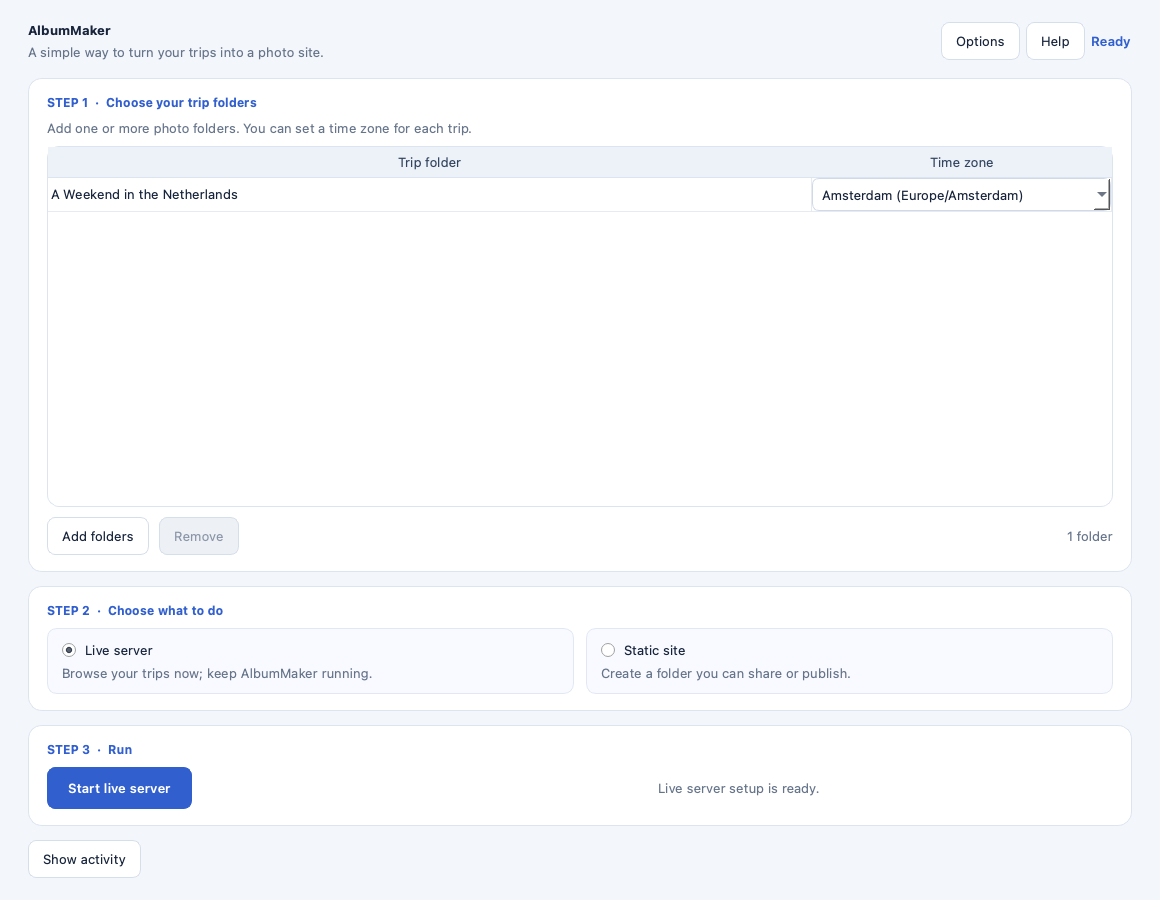
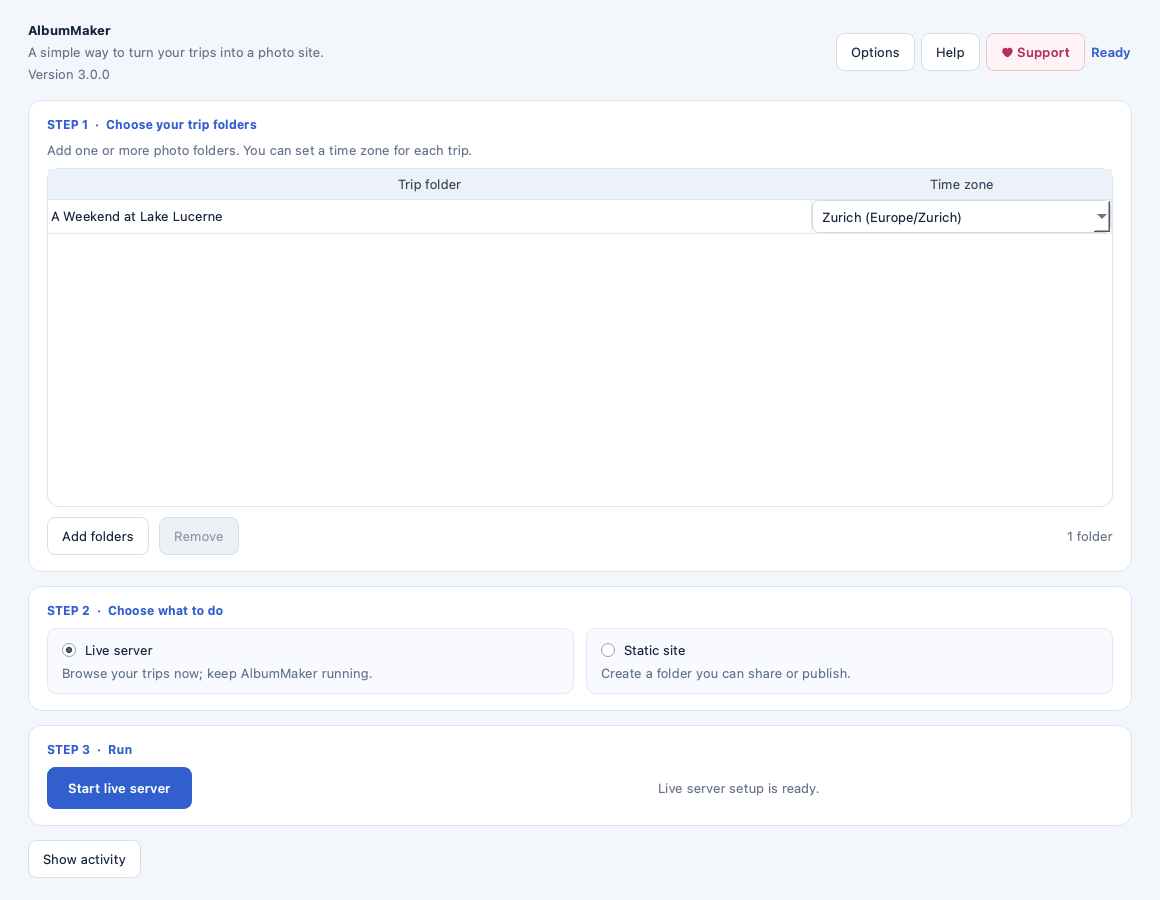
Product page: correct claims that overstated the app
- The trip title and subtitle are set in trip_content.json, not in the page.
- GPX tracks need times; place names need a location.
- Only the live server keeps viewed map tiles.
- A trip's time zone places videos and GPS matching, not photo dates.
- The app does not open the result by itself.
- FFmpeg is installed with winget or Homebrew, not in one click everywhere.
- Fresh desktop app screenshot (version line, Support button, sample trip).

diff --git a/docs/index.html b/docs/index.html
@@ -242,12 +242,12 @@
       <div class="row">
         <div class="copy">
           <h3>Tell the story, trace the route</h3>
-          <p>Give the trip a title and subtitle, and every day a title and a few paragraphs of what happened. Write them in the page while the live server runs, or in one plain <code>trip_content.json</code> file next to your photos.</p>
+          <p>Give every day a title and a few paragraphs of what happened, right in the page while the live server runs. Everything is kept in one plain <code>trip_content.json</code> file next to your photos, where you also set the trip's title and subtitle and can edit any text by hand.</p>
           <p>Recorded a track with your watch, phone or bike computer? Drop the <code>.gpx</code> file into the trip folder. AlbumMaker draws the way you actually went, adds up the kilometres, and puts photos from a camera without GPS on the map by matching their times to the track.</p>
           <ul>
             <li>Paragraphs, captions and favourites, saved safely: an edit never overwrites text changed elsewhere</li>
-            <li>One GPX file or a whole folder of them, from any app that exports GPX</li>
-            <li>Place names for every day, looked up offline</li>
+            <li>One GPX file or several, from any watch or app that records GPX tracks with times</li>
+            <li>Place names for every day with a location, looked up offline</li>
           </ul>
         </div>
         <div class="shot crop"><a href="demo/days/2025-05-14.html"><img src="assets/trip-story.png" width="1440" height="1220" alt="Day page titled Bridges and the old town, with a three-paragraph story and the walk through Lucerne drawn from a GPX track" loading="lazy"></a></div>
@@ -257,8 +257,8 @@
         <article><h3>Edit right in the page</h3><p>With the live server, write day titles and stories, add captions, mark favourites, hide photos and choose covers without opening a file.</p></article>
         <article><h3>Photos and video together</h3><p>Handles common photo and video formats, pairs Live Photos, and skips duplicates and system clutter on its own.</p></article>
         <article><h3>Place names built in</h3><p>Photos with GPS get a place name from a bundled database, so this step does not need the internet.</p></article>
-        <article><h3>Works offline</h3><p>Save the map library, fonts and tiles you have viewed, and your sites keep working without a connection.</p></article>
-        <article><h3>Right time zone</h3><p>Pick a time zone for each trip so photos from different cameras and countries land on the correct day.</p></article>
+        <article><h3>Works offline</h3><p>Keep the map library and fonts on your computer, and the live server keeps the map tiles you have viewed, so your sites keep working without a connection.</p></article>
+        <article><h3>Right time zone</h3><p>Pick a time zone for each trip, so videos that record UTC land on the correct day and photos match the right point on your GPS track.</p></article>
         <article><h3>A site you can keep</h3><p>Build a static folder to copy to a USB drive or any web host. Hidden photos stay out of it.</p></article>
       </div>
     </section>
@@ -288,10 +288,10 @@
       <ol class="steps">
         <li><h3>Choose your trip folders</h3><p>Add one folder, or several to build a library. Set a time zone for each trip if you need to.</p></li>
         <li><h3>Pick live or static</h3><p>Browse and edit on a live server, or create a standalone site to share or publish.</p></li>
-        <li><h3>Press start</h3><p>AlbumMaker reads your files, makes the thumbnails and opens the result.</p></li>
+        <li><h3>Press start</h3><p>AlbumMaker reads your files and makes the thumbnails. Open the live site with one button, or find the static site in the folder you chose.</p></li>
       </ol>
       <div class="app">
-        <div class="shot"><img src="assets/desktop-app.png" width="1160" height="900" alt="The AlbumMaker desktop app showing a trip folder, the live server and static site choices, and a Start live server button" loading="lazy"></div>
+        <div class="shot"><img src="assets/desktop-app.png" width="1160" height="900" alt="The AlbumMaker desktop app showing a trip folder with its time zone, the live server and static site choices, and a Start live server button" loading="lazy"></div>
         <p class="caption">The desktop app also has a dark theme.</p>
       </div>
     </section>
@@ -317,7 +317,7 @@
           <h3>Desktop app</h3>
           <ul>
             <li>Windows x64, macOS (Intel and Apple Silicon) and Linux x64</li>
-            <li>Python is included, so there is nothing else to install (FFmpeg for videos is a separate, optional one-click install)</li>
+            <li>Python is included, so there is nothing else to install (FFmpeg for videos is separate and optional; the app can install it for you with winget on Windows or Homebrew on macOS and Linux)</li>
             <li>Linux builds target Ubuntu 22.04 and need a compatible glibc</li>
             <li>Builds are not signed, so the first time macOS asks you to allow it (System Settings → Privacy &amp; Security → Open Anyway) and Windows shows SmartScreen (More info → Run anyway)</li>
           </ul>
@@ -330,7 +330,7 @@ pip install -r requirements.txt
 python album_server.py -i /path/to/photos
 <span># then open http://127.0.0.1:8000/</span></pre>
           <ul>
-            <li>Install FFmpeg (the app offers to, in one click) for video details and previews</li>
+            <li>Install FFmpeg for video details and previews (<code>python -m albummaker install-ffmpeg</code> does it with winget or Homebrew)</li>
             <li>Add <code>requirements-gui.txt</code> for the desktop interface</li>
             <li>Check your version with <code>--version</code></li>
           </ul>
